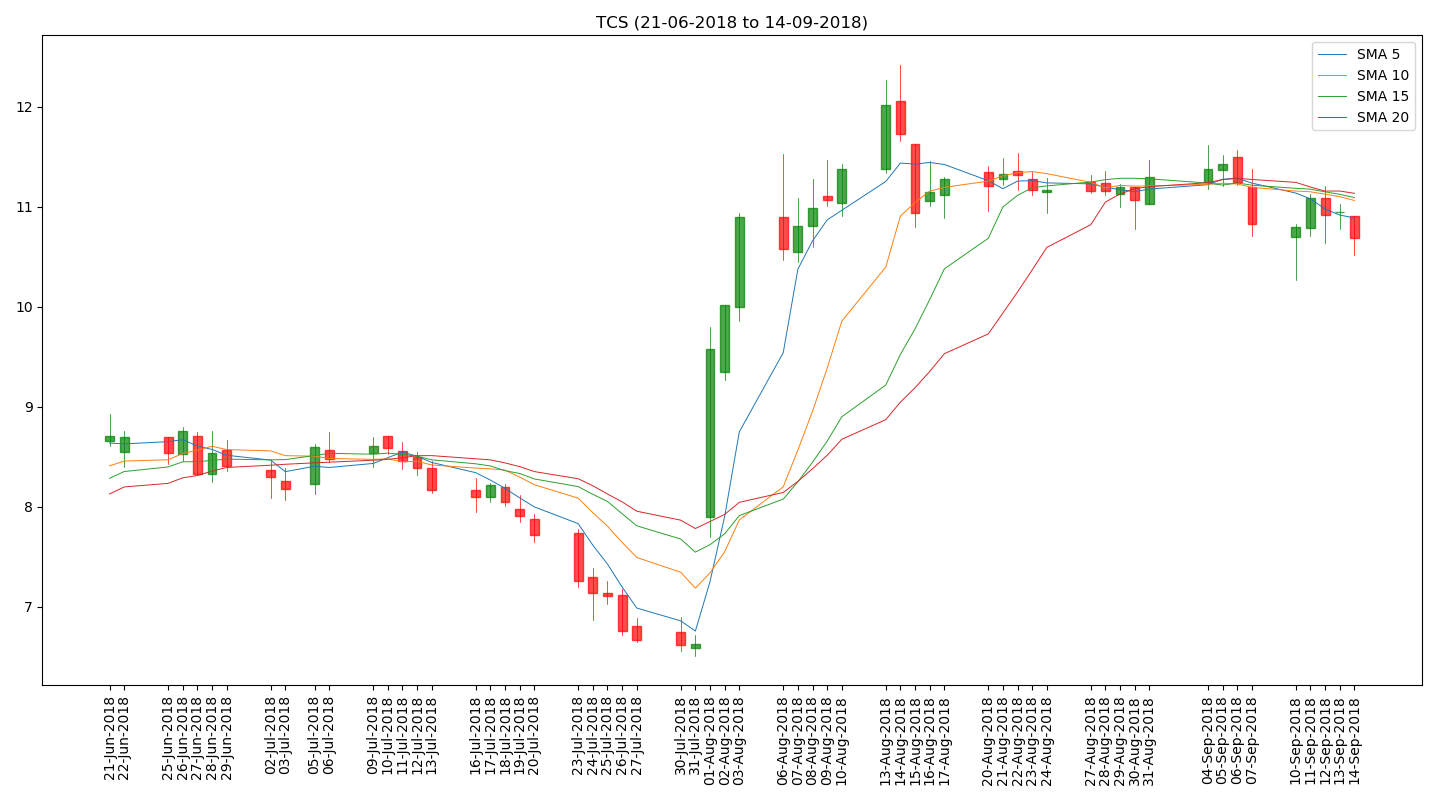
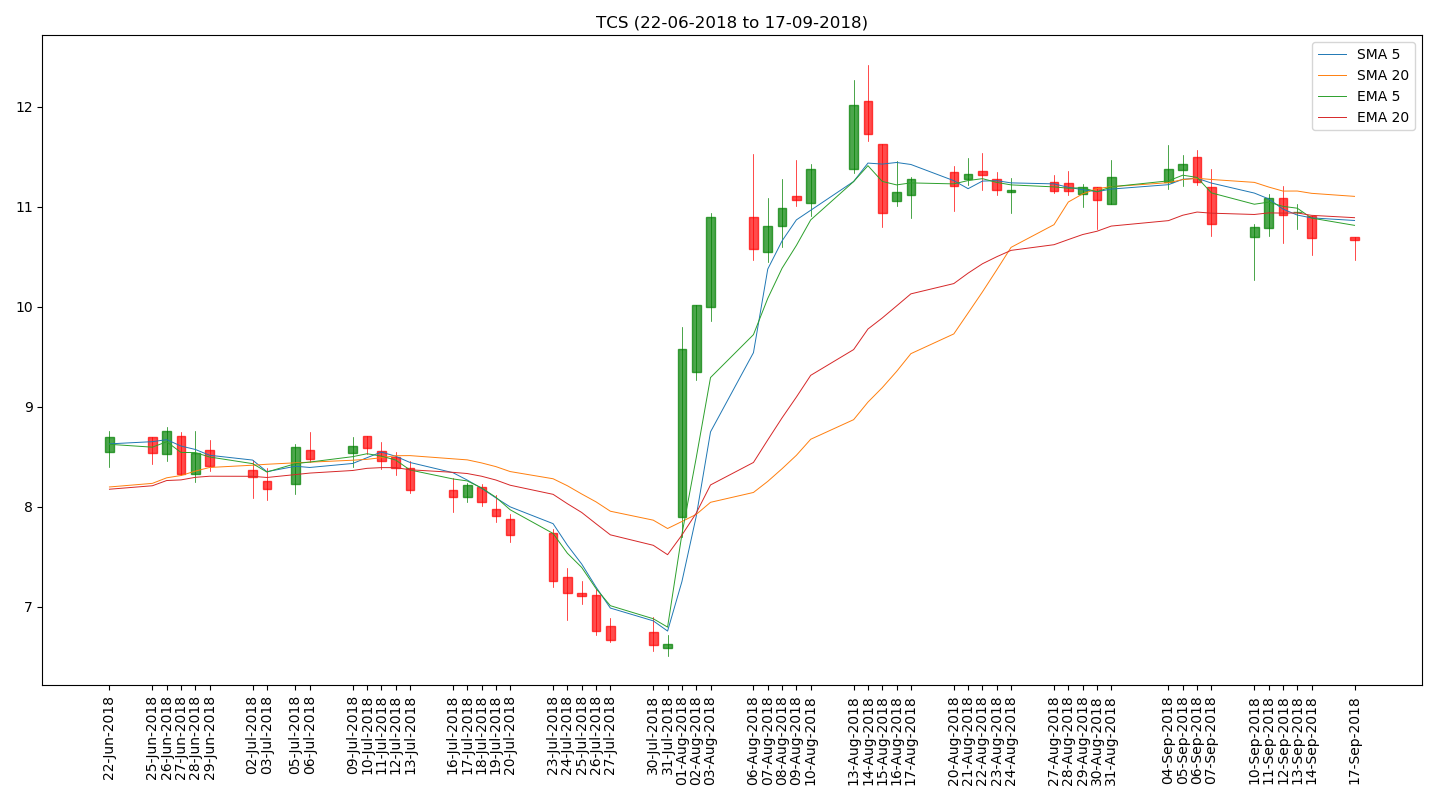
Exponential Moving Averages Using historical data to compute exponential moving averages and visualise them by plotting along with simple moving averages.

diff --git a/movavg/MovingAverage.py b/movavg/MovingAverage.py
@@ -55,6 +55,18 @@ class MovingAverage(Historical):
         dohlc['SMA 150'] = dohlc[col].rolling(150).mean()
         dohlc['SMA 200'] = dohlc[col].rolling(200).mean()
         dohlc['SMA 250'] = dohlc[col].rolling(250).mean()
+        #
+        adj = False
+        dohlc['EMA 5'] = dohlc[col].ewm(span=5, adjust=adj).mean()
+        dohlc['EMA 10'] = dohlc[col].ewm(span=10, adjust=adj).mean()
+        dohlc['EMA 15'] = dohlc[col].ewm(span=15, adjust=adj).mean()
+        dohlc['EMA 20'] = dohlc[col].ewm(span=20, adjust=adj).mean()
+        dohlc['EMA 50'] = dohlc[col].ewm(span=50, adjust=adj).mean()
+        dohlc['EMA 100'] = dohlc[col].ewm(span=100, adjust=adj).mean()
+        dohlc['EMA 150'] = dohlc[col].ewm(span=150, adjust=adj).mean()
+        dohlc['EMA 200'] = dohlc[col].ewm(span=200, adjust=adj).mean()
+        dohlc['EMA 250'] = dohlc[col].ewm(span=250, adjust=adj).mean()
+        #
         dohlc = dohlc.dropna()
         return dohlc
     
@@ -72,9 +84,9 @@ class MovingAverage(Historical):
             ax=axis
         )
         self.plot_ma(dohlc.index, dohlc['SMA 5'], 'SMA 5')
-        self.plot_ma(dohlc.index, dohlc['SMA 10'], 'SMA 10')
-        self.plot_ma(dohlc.index, dohlc['SMA 15'], 'SMA 15')
         self.plot_ma(dohlc.index, dohlc['SMA 20'], 'SMA 20')
+        self.plot_ma(dohlc.index, dohlc['EMA 5'], 'EMA 5')
+        self.plot_ma(dohlc.index, dohlc['EMA 20'], 'EMA 20')
         axis.xaxis.set_major_formatter(mdates.DateFormatter(dfmt))
         axis.set_xticks(dohlc.index[::-steps])
         plt.setp(plt.gca().get_xticklabels(), rotation=90)
@@ -115,9 +127,9 @@ class MovingAverage(Historical):
                 alpha=0.7
                 )
         self.plot_ma(dohlc['Date'], dohlc['SMA 5'], 'SMA 5')
-        self.plot_ma(dohlc['Date'], dohlc['SMA 10'], 'SMA 10')
-        self.plot_ma(dohlc['Date'], dohlc['SMA 15'], 'SMA 15')
         self.plot_ma(dohlc['Date'], dohlc['SMA 20'], 'SMA 20')
+        self.plot_ma(dohlc['Date'], dohlc['EMA 5'], 'EMA 5')
+        self.plot_ma(dohlc['Date'], dohlc['EMA 20'], 'EMA 20')
         axis.xaxis.set_major_formatter(mdates.DateFormatter(dfmt))
         axis.set_xticks(dohlc.Date[::-steps])
         plt.setp(plt.gca().get_xticklabels(), rotation=90)
@@ -136,7 +148,7 @@ if __name__ == '__main__':
     data = ma.get(
             symbol,
             DateTime.five_years_ago_from_today(),
-            DateTime.today()
+            DateTime.today_extended()
             )
     dohlc = ma.compute_moving_averages(data)
     ma.line_plot_time_series_with_ma(

diff --git a/findata/Historical.py b/findata/Historical.py
@@ -245,7 +245,7 @@ class Historical:
         if from_date is None:
             from_date = DateTime.five_years_ago_from_today()
         if to_date is None:
-            to_date = DateTime.today()
+            to_date = DateTime.today_extended()
         if self.__online_mode:
             weburl = self.__construct_web_url(symbol, from_date, to_date)
             hist_data = self.__fetch_and_parse_json(weburl)
@@ -265,7 +265,7 @@ if __name__ == '__main__':
     data = fh.get(
             symbol,
             DateTime.five_years_ago_from_today(),
-            DateTime.today()
+            DateTime.today_extended()
             )
     fh.line_plot_time_series(symbol, data)
     fh.candle_plot_time_series(symbol, data, recent=30)
